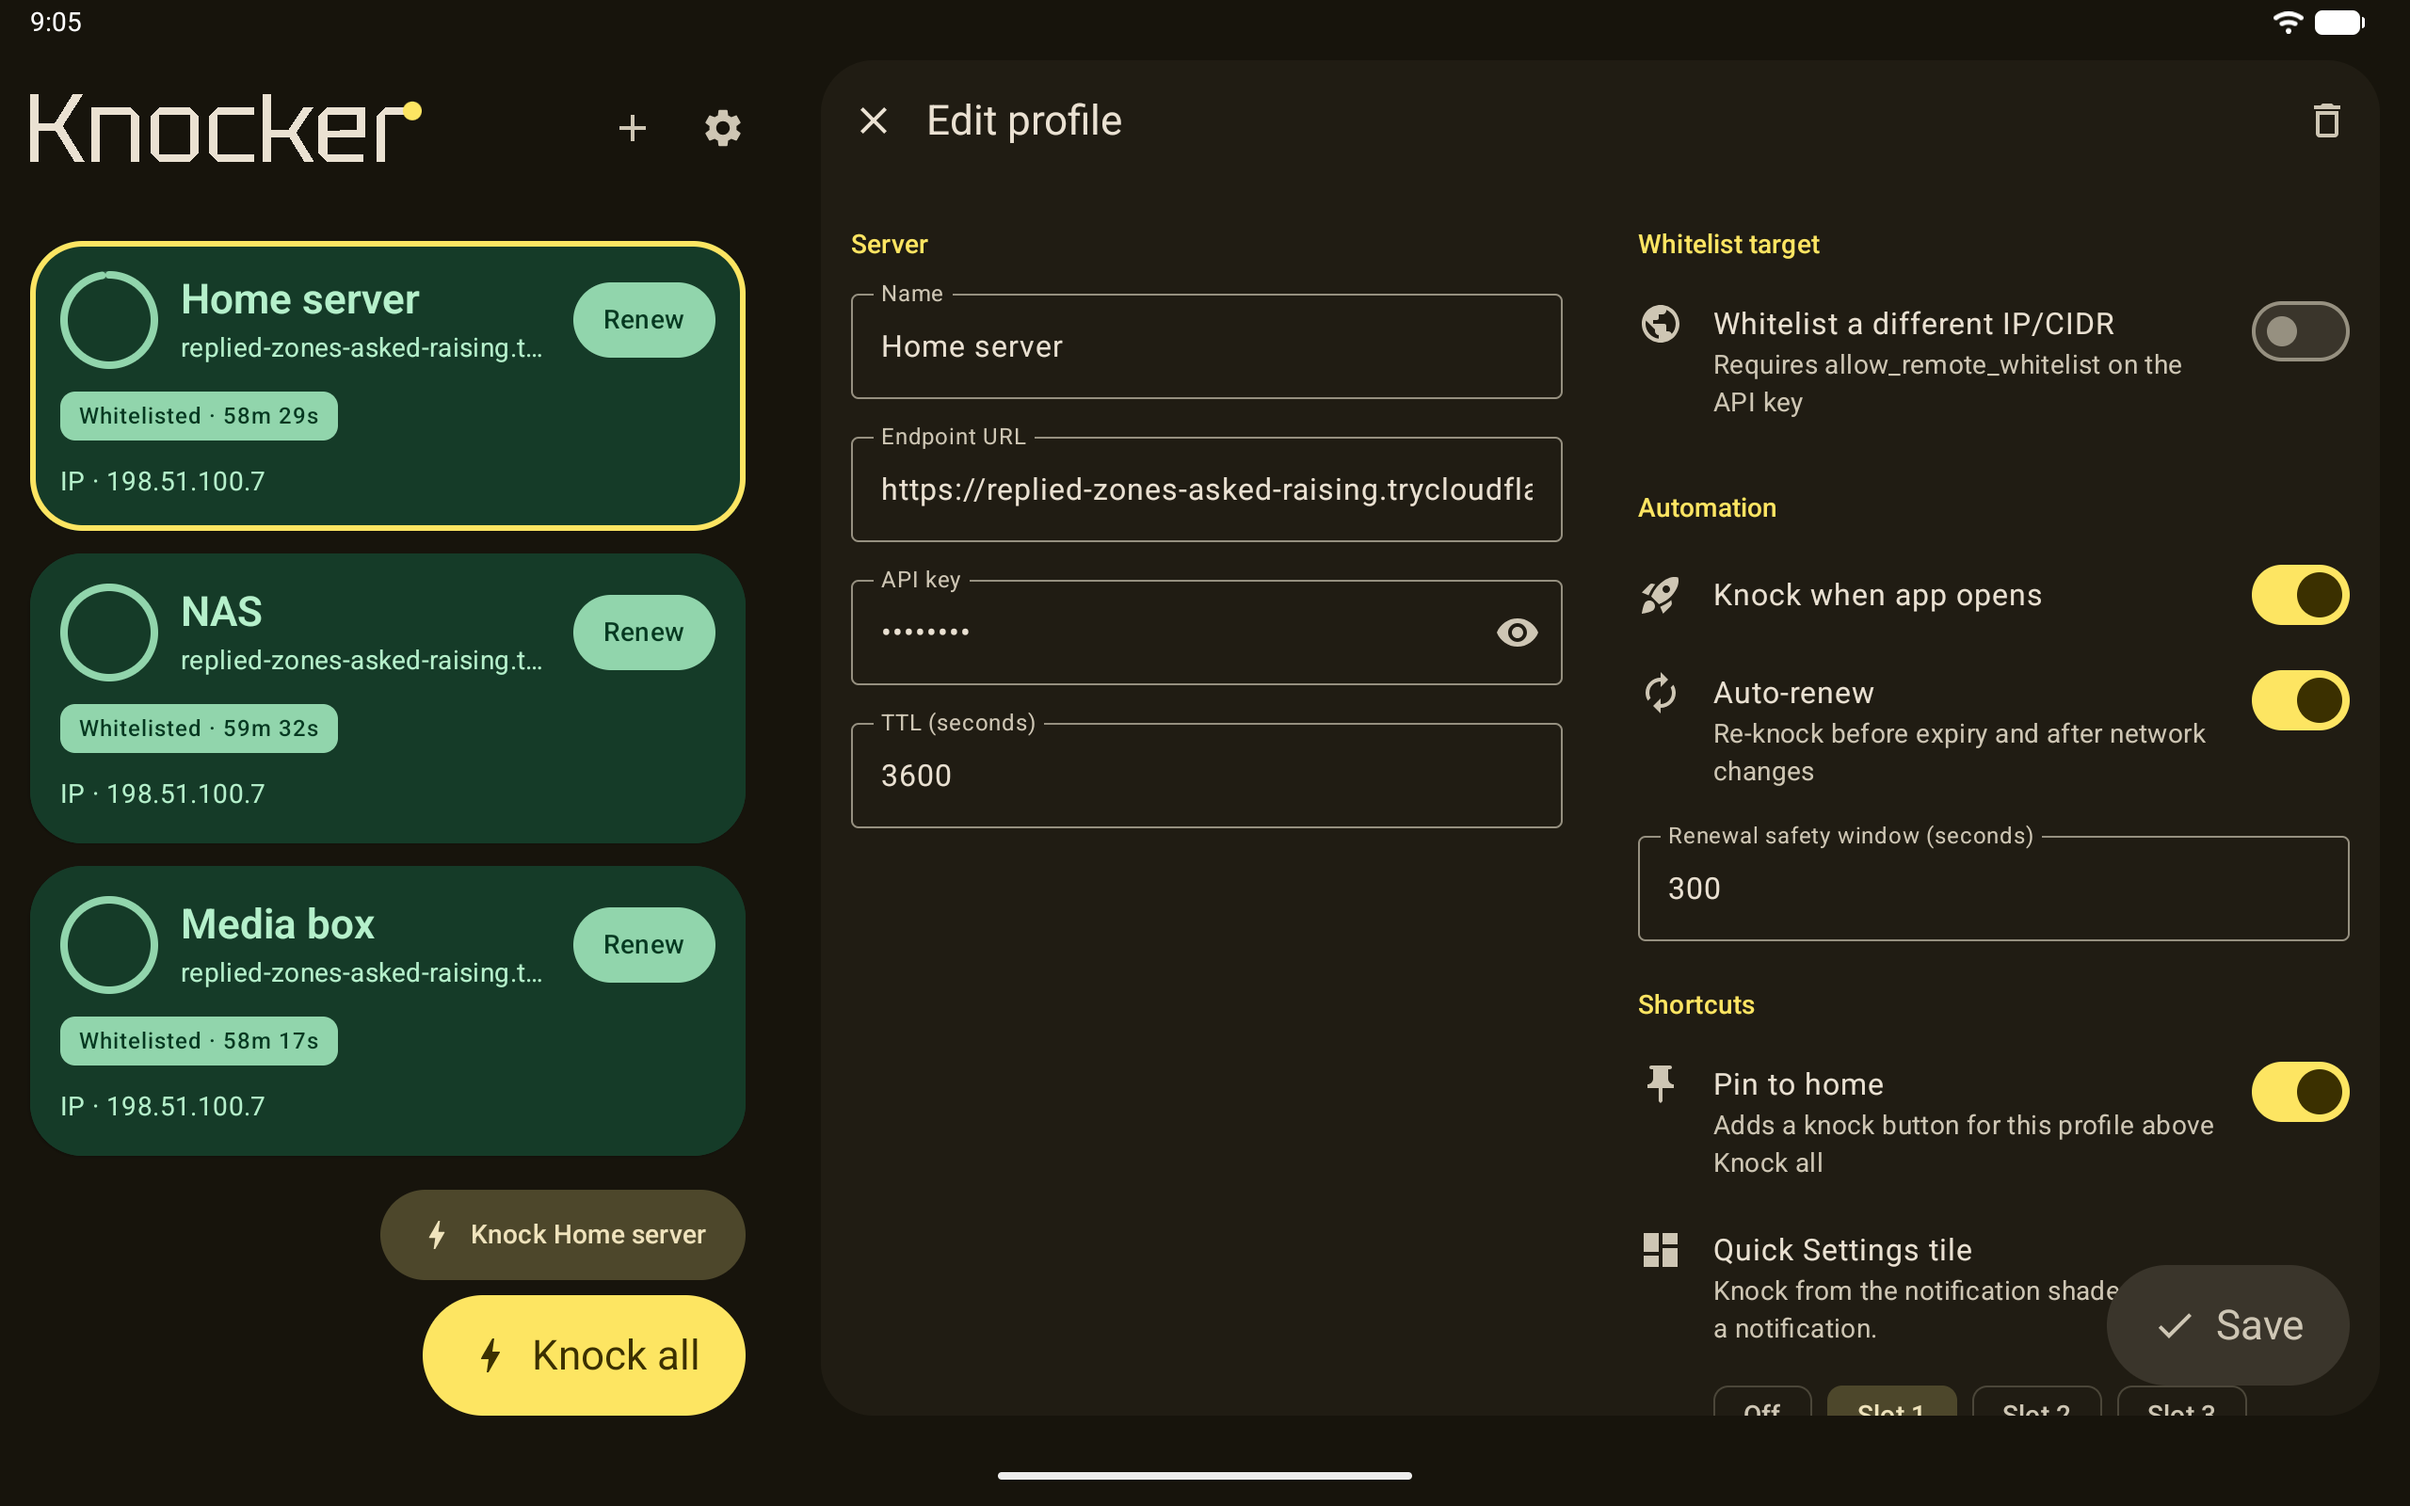
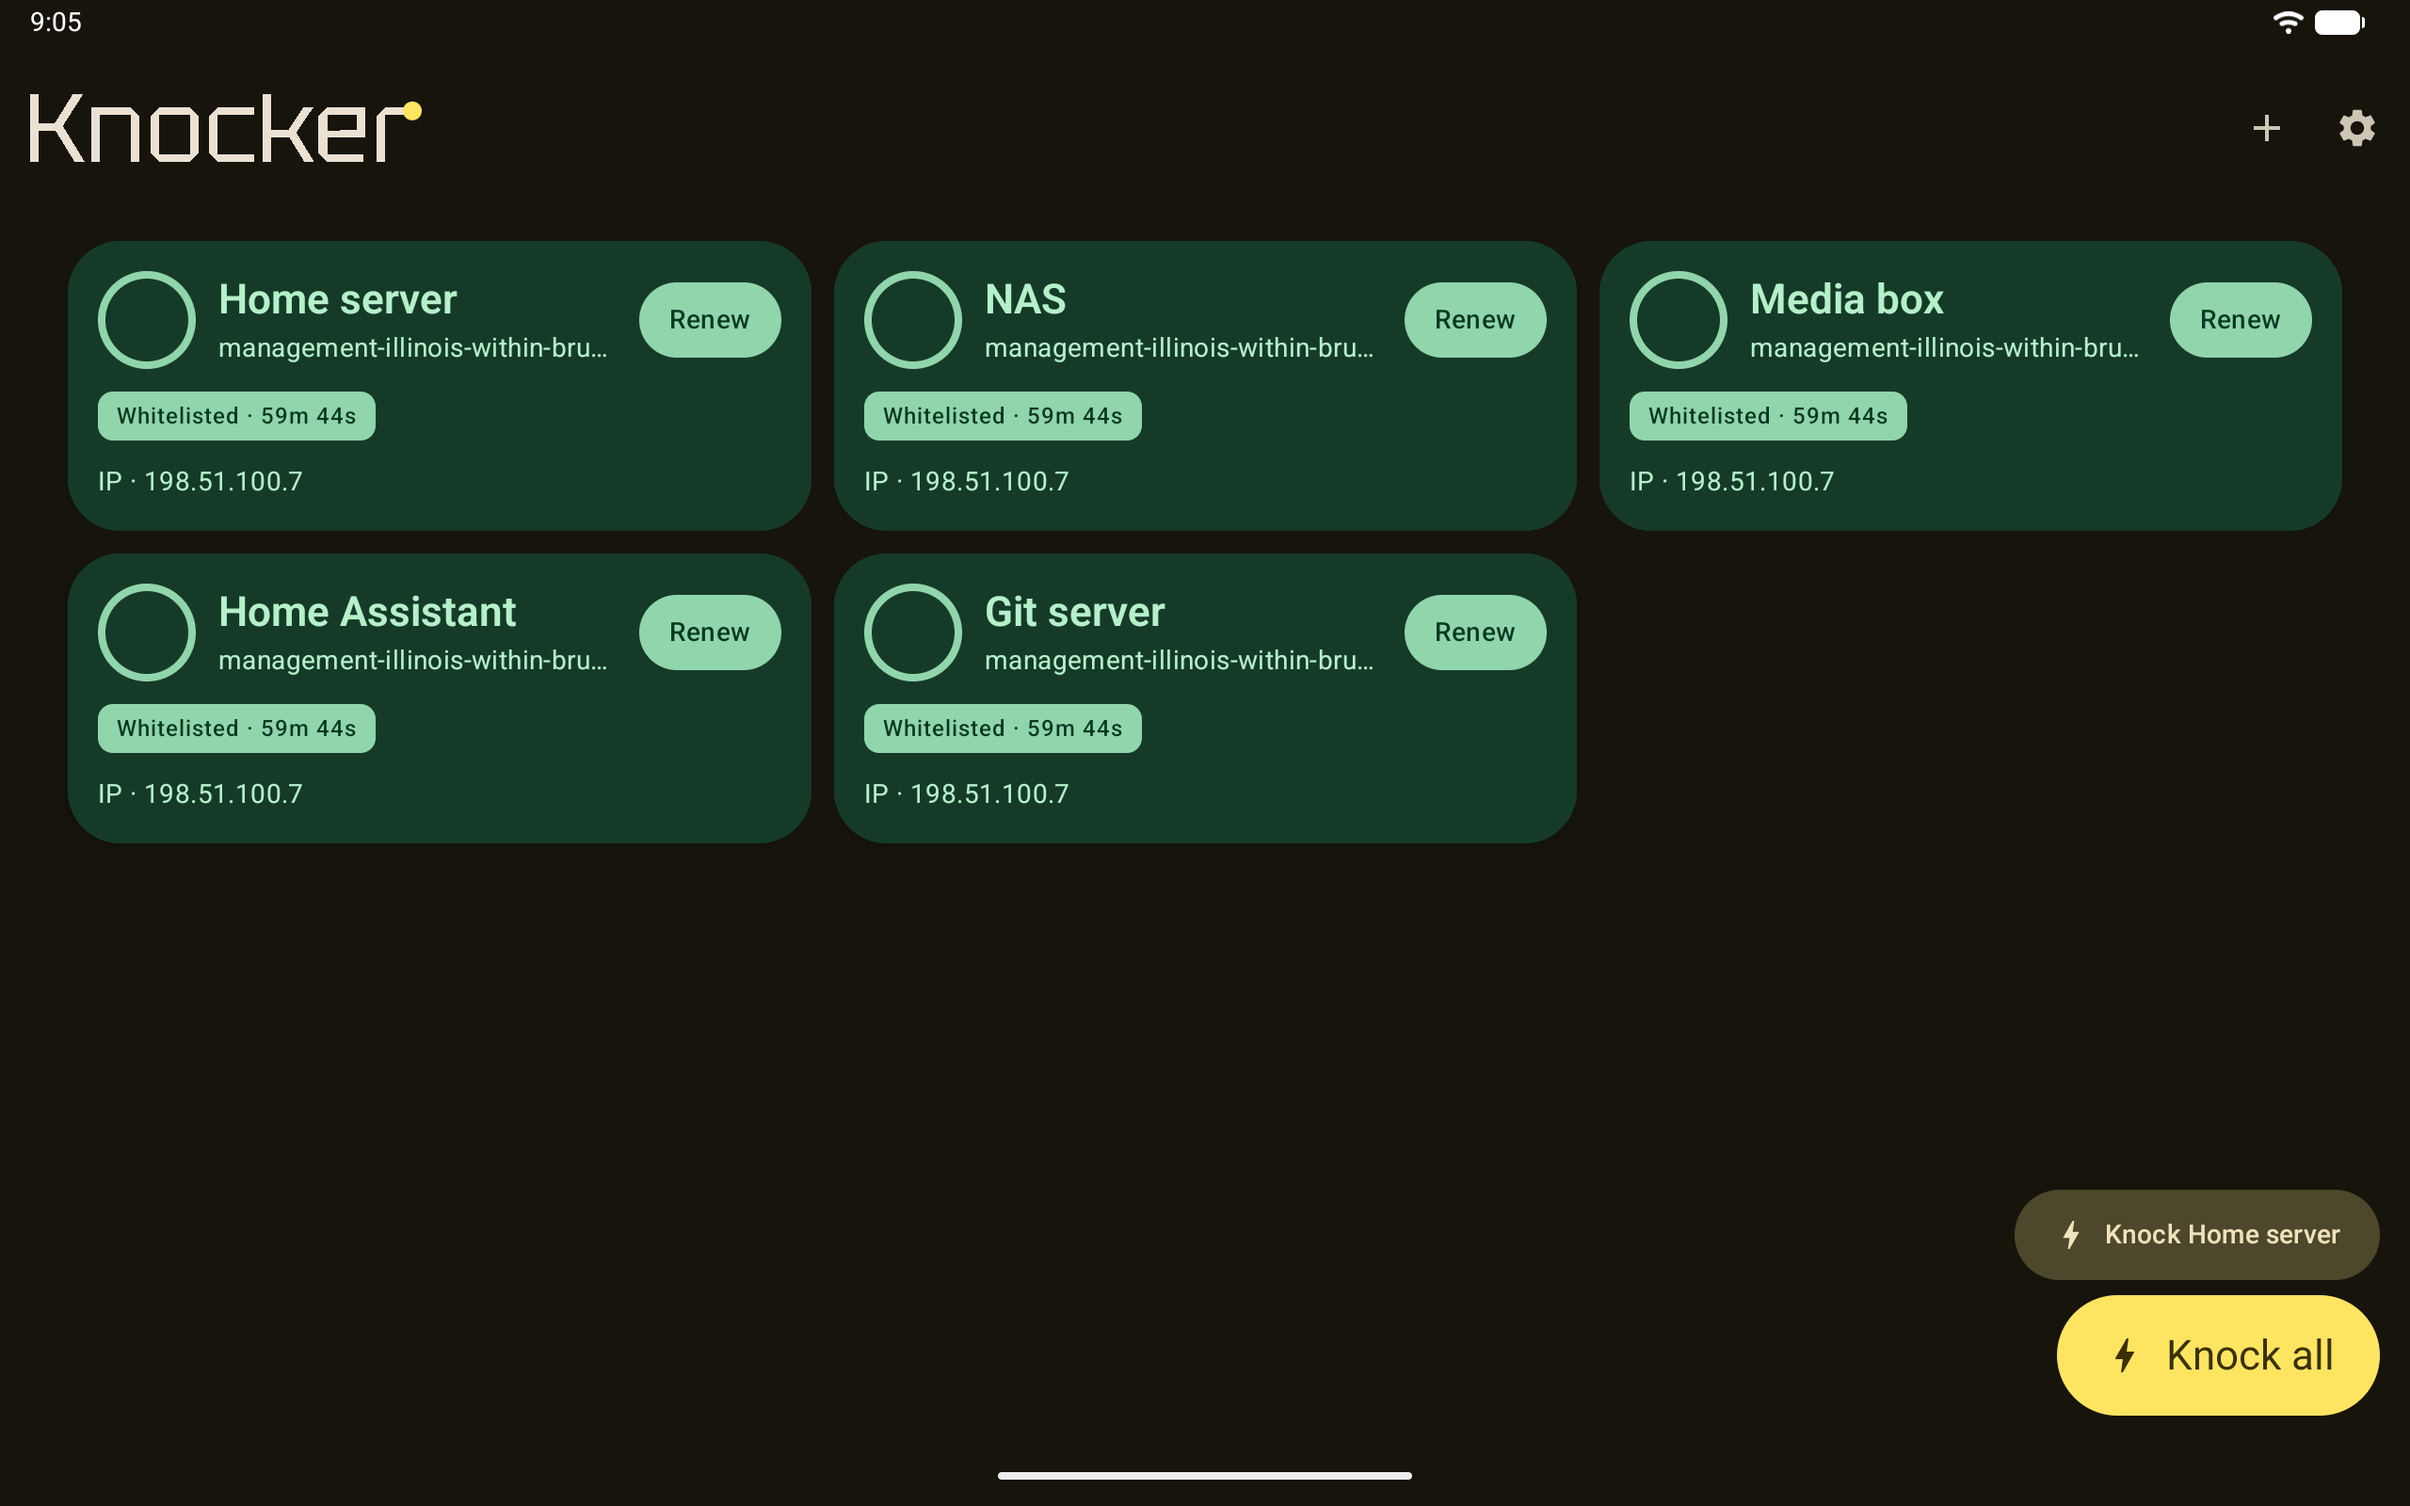
Retake tablet Play screenshots: full-window home, spotlit auto-renew
The first shot now shows home across the whole window with its actions in
the corner, so the listing no longer suggests a detail pane is always open.
The auto-renew shot dims the screen around the Auto-renew switch and labels
it. Settings is recaptured against the same demo server.

diff --git a/docs/play-store/shots.html b/docs/play-store/shots.html
@@ -90,6 +90,12 @@ pre .r { color: var(--red); }
 /* The camera sits in the bezel, not in the screen like the phone's punch hole. */
 .tablet .screen::before { display: none; }
 .tablet .note { font-size: 22px; }
+/* One setting in a capture, lifted out of a dimmed screen. */
+.spot {
+  position: absolute; border-radius: 18px; outline: 3px solid var(--yl); outline-offset: 0;
+  box-shadow: 0 0 0 2400px rgba(6,6,5,.62);
+}
+.spot + .note { background: #060605; padding: 6px 10px; border-radius: 8px; }
 </style>
 </head>
 <body>
@@ -130,7 +136,7 @@ pre .r { color: var(--red); }
   <div class="card" style="left:72px;top:1500px"><div class="crop" style="--img:url(source/notification.png);--cx:42;--cy:1122;--cw:996;--ch:304;--s:.94"></div></div>
 </section>
 
-<!-- Tablet 1. What Knocker is, with the list beside the open profile -->
+<!-- Tablet 1. What Knocker is: home across the whole window, actions in the corner -->
 <section class="tshot" id="t1">
   <h1>Your homelab,<br>locked until<br><em>you knock.</em></h1>
 <pre style="top:476px">
@@ -140,7 +146,7 @@ pre .r { color: var(--red); }
   <div class="tablet" style="--w:1036px"><div class="screen" style="--img:url(source/tablet-home.png)"></div></div>
 </section>
 
-<!-- Tablet 2. Auto-renew: Home server recovered on the new network; NAS, without it, did not -->
+<!-- Tablet 2. Auto-renew: the setting itself, lit in the open profile -->
 <section class="tshot" id="t2">
   <h1>New network?<br><em>Knocker<br>knocks again.</em></h1>
 <pre style="top:476px">
@@ -150,7 +156,10 @@ pre .r { color: var(--red); }
   │    <span class="y">auto-renew knocks again</span>
 <b>5g     198.51.100.7</b>   <span class="g">✓ allowed</span>
 <b>also</b>   renews before a knock expires</pre>
-  <div class="tablet" style="--w:1036px"><div class="screen" style="--img:url(source/tablet-renew.png)"></div></div>
+  <div class="tablet" style="--w:1036px"><div class="screen" style="--img:url(source/tablet-renew.png)">
+    <div class="spot" style="left:694px;top:274px;width:324px;height:78px"></div>
+    <div class="note" style="left:694px;top:364px">▲ knocks again by itself</div>
+  </div></div>
 </section>
 
 <!-- Tablet 3. Quick Settings tile with its result notification beside it -->

diff --git a/docs/play-store/README.md b/docs/play-store/README.md
@@ -12,10 +12,10 @@ The three 1080 × 1920 PNGs in `screenshots/`:
 
 ## 10-inch tablet
 
-The four 2560 × 1440 PNGs in `screenshots/tablet/`. Play asks for 16:9 landscape or 9:16 portrait with every side between 1,080 and 7,680 px, and recommends at least four tablet screenshots. Upload the same set for 7-inch tablets if that slot is used. Every capture shows the list-detail layout, with the profile list beside the open profile or Settings.
+The four 2560 × 1440 PNGs in `screenshots/tablet/`. Play asks for 16:9 landscape or 9:16 portrait with every side between 1,080 and 7,680 px, and recommends at least four tablet screenshots. Upload the same set for 7-inch tablets if that slot is used. The set shows both tablet layouts: home across the whole window when nothing is open, and the profile list beside an open profile or Settings.
 
-1. `01-what-it-is.png`: the pitch and the three steps of a knock. Three whitelisted servers in the list, Home server open beside it.
-2. `02-auto-renew.png`: the auto-renew story. Home server (auto-renew on) has knocked again from the new address `198.51.100.7`. NAS (auto-renew off) still holds its old grant and shows the amber "IP changed · not whitelisted" footer.
+1. `01-what-it-is.png`: the pitch and the three steps of a knock, over the full-window home: five whitelisted servers in columns, with Knock all and the pinned knock in the bottom-right corner.
+2. `02-auto-renew.png`: the auto-renew story, with the Auto-renew switch spotlit in Home server's open profile. Home server (auto-renew on) has knocked again from the new address `198.51.100.7`. In the dimmed list, NAS (auto-renew off) still holds its old grant and shows the amber "IP changed · not whitelisted" footer.
 3. `03-quick-settings.png`: the tablet's split shade. The Knocker tile is in Quick Settings and its result notification sits beside it.
 4. `04-your-rules.png`: light theme with Settings open: Android light/dark, Knocker yellow or wallpaper colors, opt-in crash reports and the source link.
 
@@ -25,7 +25,7 @@ Everything is laid out in `shots.html` and screenshotted by `render.py` with hea
 
 - A headline in Inter Bold with one Knocker-yellow phrase.
 - A short monospace block (JetBrains Mono) that explains the feature in a few aligned lines.
-- An upright device frame around an unaltered Android 16 emulator capture from `source/`: a Pixel 7 for phones, a Pixel Tablet in landscape (2560 × 1600) for tablets. Phone shot 3 adds one unaltered crop of the notification capture, and both tile shots add a "one tap" pointer.
+- An upright device frame around an unaltered Android 16 emulator capture from `source/`: a Pixel 7 for phones, a Pixel Tablet in landscape (2560 × 1600) for tablets. Phone shot 3 adds one unaltered crop of the notification capture, both tile shots add a "one tap" pointer, and tablet shot 2 dims the screen around the Auto-renew row (`.spot`) with a short label.
 
 Phone sources: `home.png` and `renew.png` show the native Compose design (top-bar New profile action, list-row editor with the floating Save action). `tile.png` and `notification.png` are system UI and did not change with that redesign. Recapture `home.png` and `renew.png` whenever the home screen or profile editor changes.
 
@@ -37,7 +37,7 @@ Tablet sources: `tablet-home.png`, `tablet-renew.png`, `tablet-tile.png` and `ta
 - the Knocker tile resized to its large, labelled form, and the emulator's "Serial console enabled" notice snoozed;
 - exact-alarm access allowed, so the editor does not show the "Allow precise renewal" prompt.
 
-Both fonts are vendored in `fonts/` under the SIL OFL 1.1. Addresses come from the documentation ranges (`203.0.113.42`, `198.51.100.7`). The capture profiles used a temporary demo server, so its hostname is not a production endpoint. For the tablet set, `artifacts/knocker/scripts/network-test-server.mjs` was adapted to keep one grant per endpoint path, which gives the three profiles independent states.
+Both fonts are vendored in `fonts/` under the SIL OFL 1.1. Addresses come from the documentation ranges (`203.0.113.42`, `198.51.100.7`). The capture profiles used a temporary demo server, so its hostname is not a production endpoint. For the tablet set, `artifacts/knocker/scripts/network-test-server.mjs` was adapted to keep one grant per endpoint path, which gives each profile an independent state. Only these two documentation addresses appear in the captures; the fixture reports them in place of the caller's real address.
 
 ## Regenerating
 
